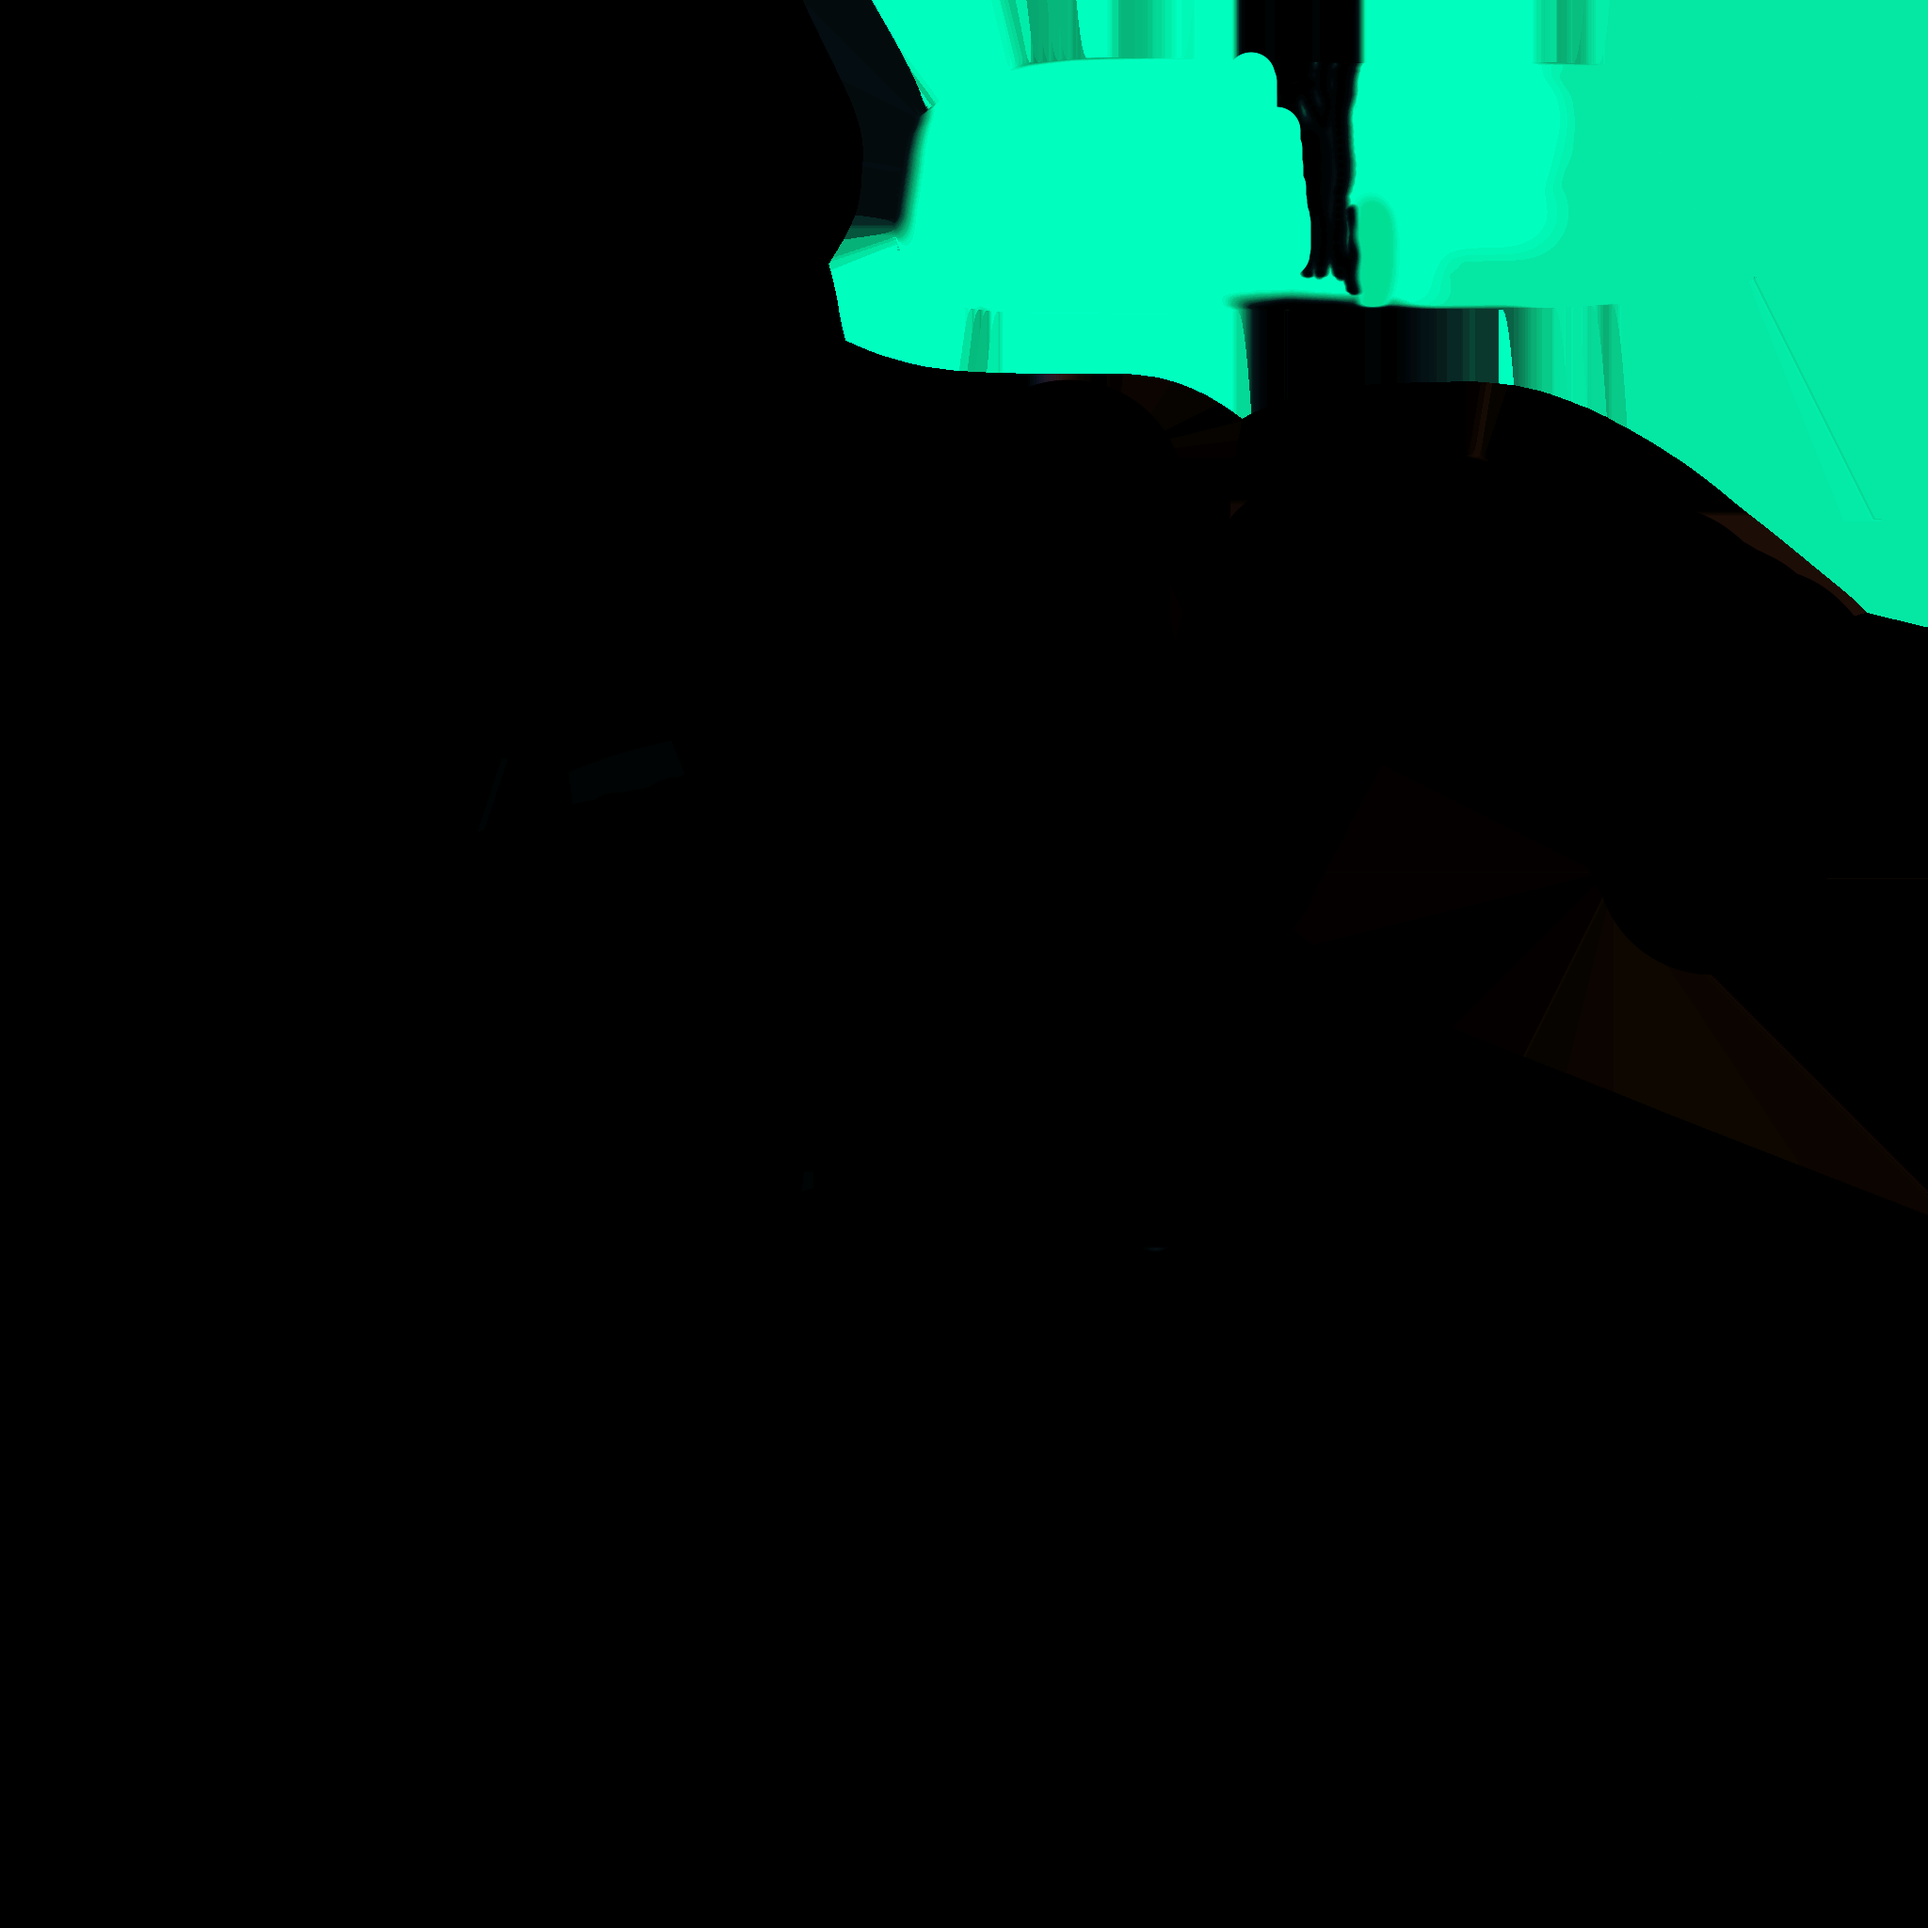
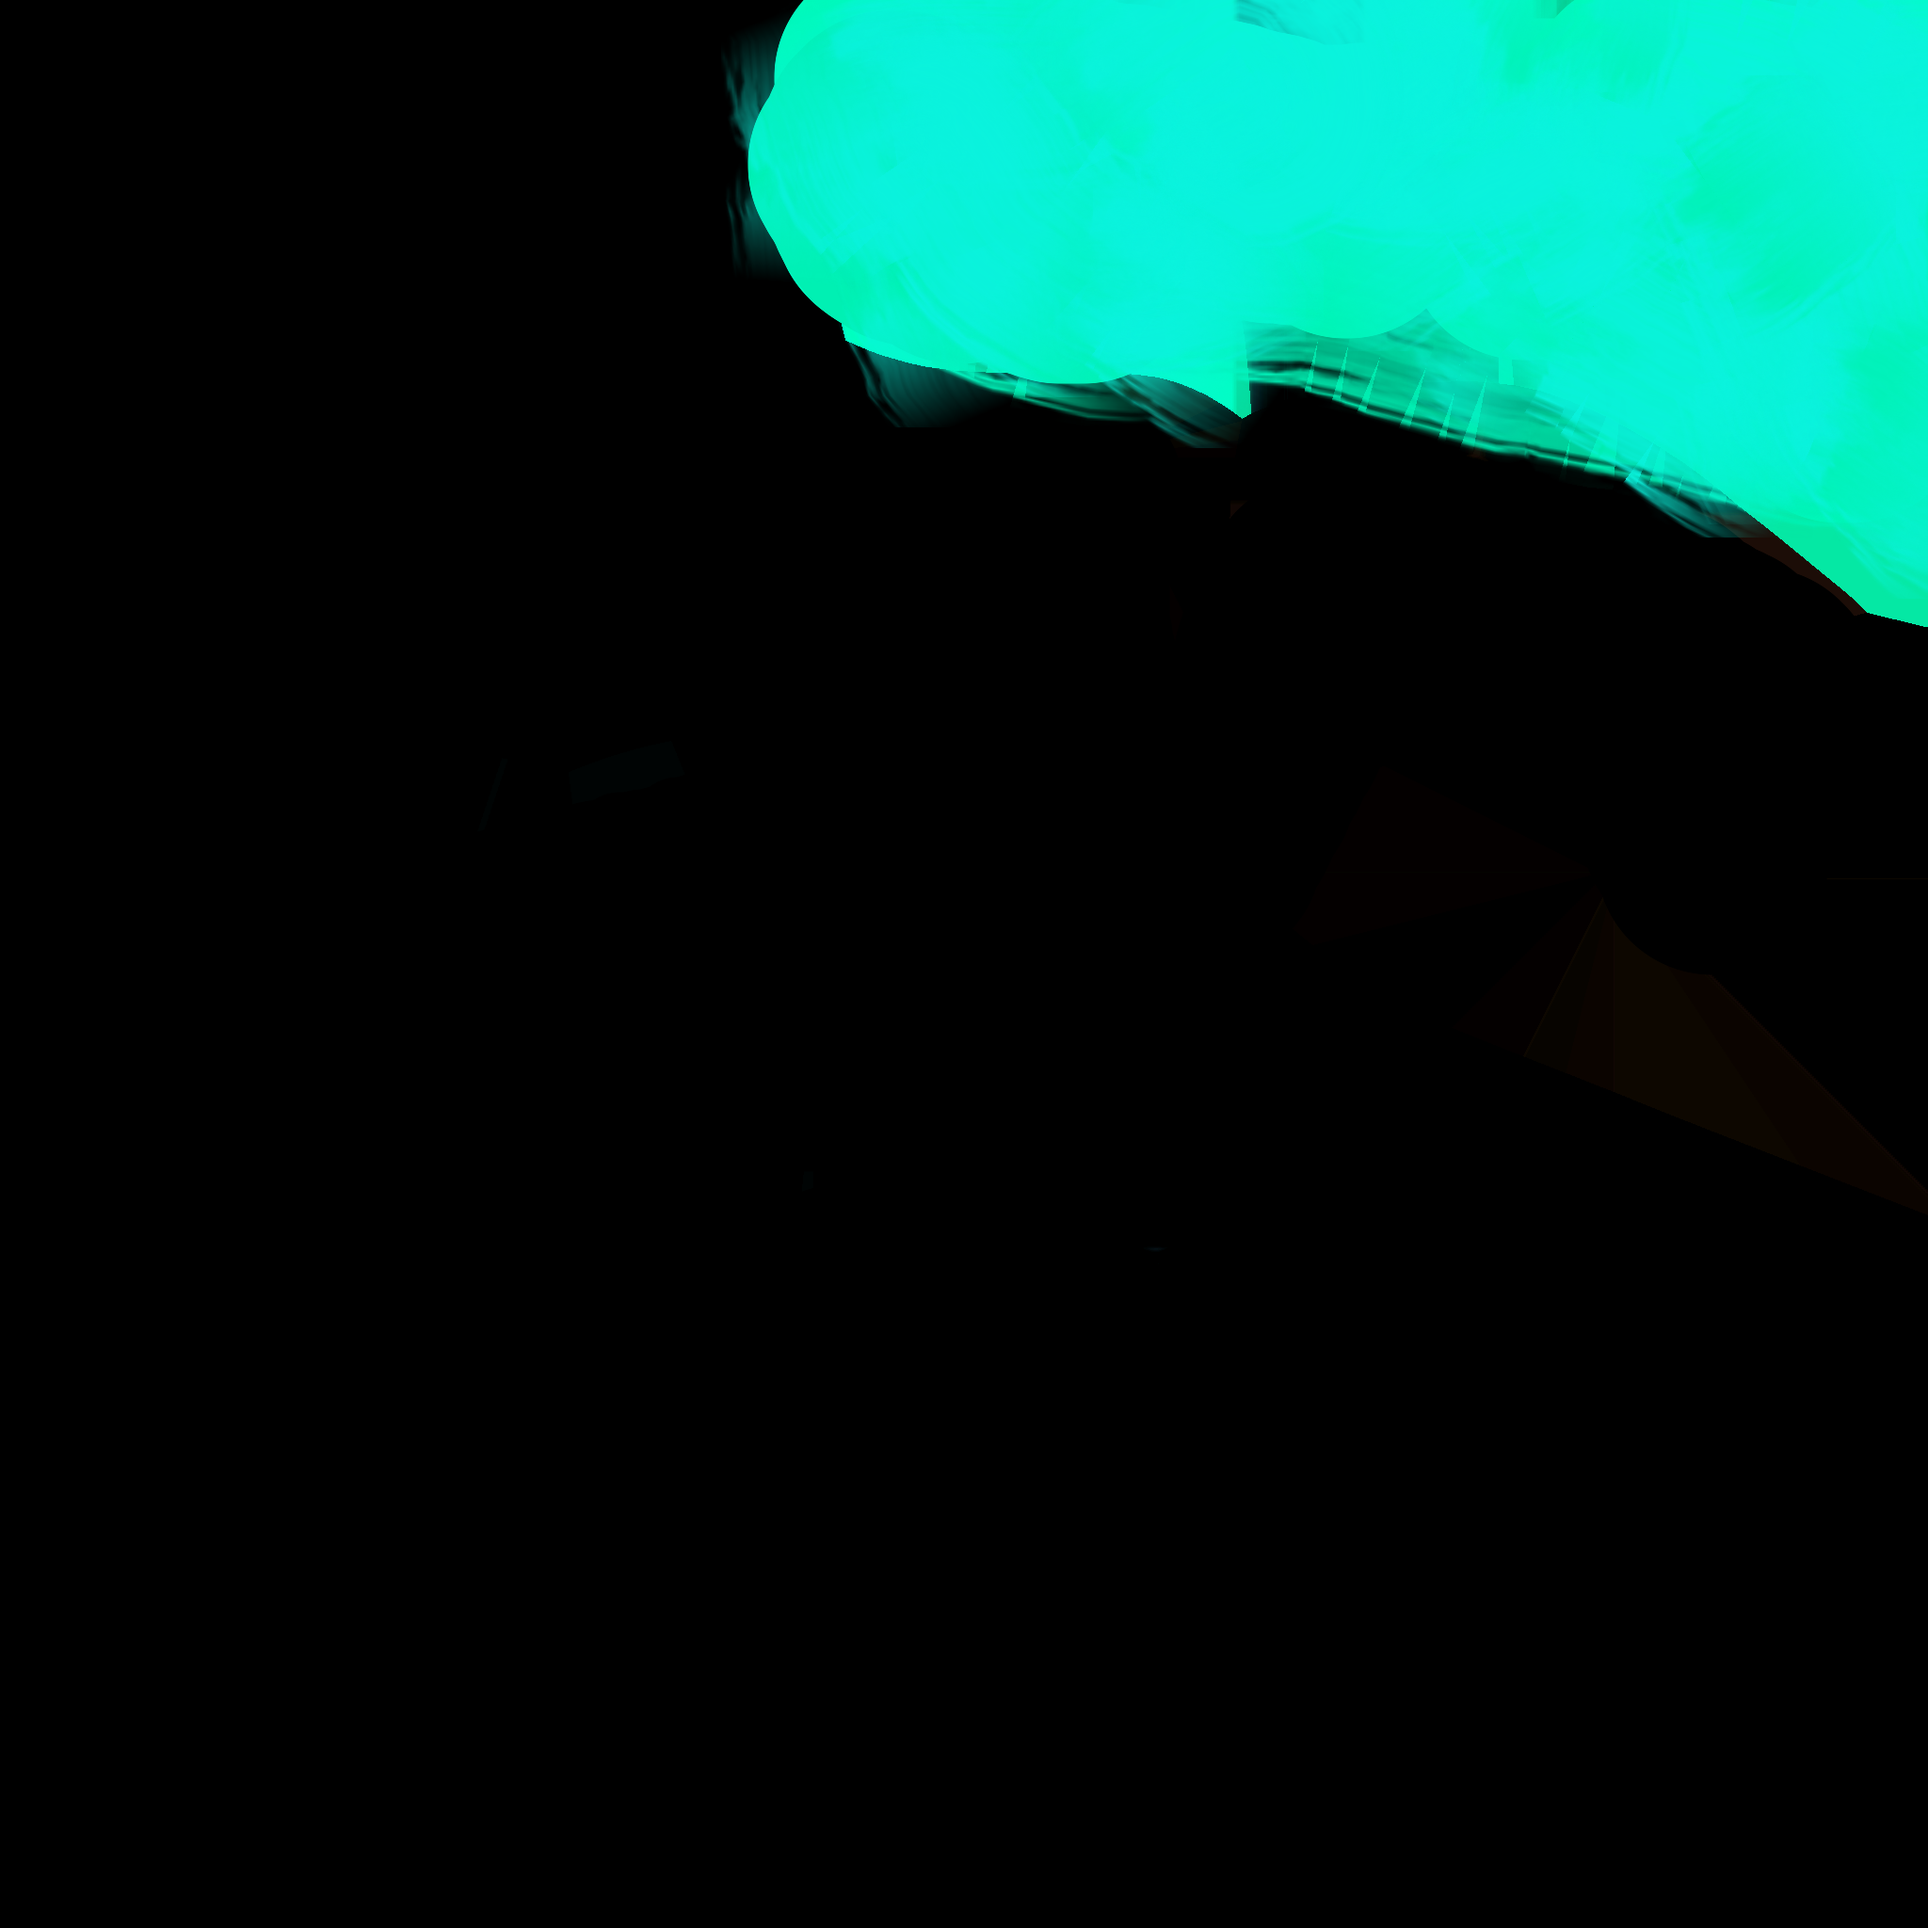
Added indicator for ammo, updated water particles textures and rotation, made water velocity affeced by player movement
And prob something else idk

Changed region(s): [[0.375, 0.0, 1.0, 0.3125]]

diff --git a/Assets/Scripts/Gun/WaterGun.cs b/Assets/Scripts/Gun/WaterGun.cs
@@ -8,9 +8,9 @@ public class WaterGun : MonoBehaviour
 {
 
     //Set high for testing***
-    public float ammo = 300f;
-    public float maxAmmo = 300f;
-    [SerializeField] private float fireRate = 10f;
+    public float ammo = 50f;
+    public float maxAmmo = 50f;
+    [SerializeField] private float fireRate = .1f;
     
     private ParticleSystem ps;
 
@@ -19,9 +19,13 @@ public class WaterGun : MonoBehaviour
 
     private bool playerDead = false;
 
+    //initial velocity for better particle physics
+    private ParticleSystem.VelocityOverLifetimeModule velocityModule;
+
     private void Awake()
     {
         ps = GetComponent<ParticleSystem>();
+        velocityModule = ps.velocityOverLifetime;
     }
     private void Update()
     {
@@ -32,6 +36,7 @@ public class WaterGun : MonoBehaviour
         }
         HandleInput();
         HandleShooting();
+        ParticlePhysics();
     }
 
     private void HandleInput() // Handles user inputs for shooting and stopping shooting
@@ -96,6 +101,33 @@ public class WaterGun : MonoBehaviour
             return;
         }
         ammo -= fireRate;
+    }
+
+
+
+    //All code to make the water feel more natural and it gets initial velocity based on your movement
+
+    ParticleSystem.VelocityOverLifetimeModule vel;
+    PlayerMovement playerMovement;
+    private void Start()
+    {
+
+        vel = ps.velocityOverLifetime;
+        vel.enabled = true;
+        vel.space = ParticleSystemSimulationSpace.World; // Or Local
+        playerMovement = GetComponentInParent<PlayerMovement>();
+    }
+    public void ParticlePhysics()
+    {
+        Vector3 extraVelocity = Vector3.zero;
+
+        extraVelocity = playerMovement.GetVelocity();
+
+        vel.x = new ParticleSystem.MinMaxCurve(extraVelocity.x);
+        vel.y = new ParticleSystem.MinMaxCurve(extraVelocity.y);
+        vel.z = new ParticleSystem.MinMaxCurve(extraVelocity.z);
+
+
     }
 
     private void OnEnable()

diff --git a/Assets/Scripts/Gun/WaterGunEmissiveAmmo.cs b/Assets/Scripts/Gun/WaterGunEmissiveAmmo.cs
@@ -1,0 +1,64 @@
+using System.Collections;
+using System.Collections.Generic;
+using UnityEngine;
+
+public class WaterGunEmissiveAmmo : MonoBehaviour
+{
+    private WaterGun WaterGun;
+    private Material MaterialInstance;
+    private Color OgColor;
+    private bool shooting;
+
+    private void Awake()
+    {
+        WaterGun = transform.parent.GetComponent<WaterGun>();
+        MaterialInstance = GetComponent<Renderer>().material;
+        MaterialInstance.EnableKeyword("_EMISSION");
+        OgColor = MaterialInstance.GetColor("_EmissionColor");
+        shooting = false;
+
+    }
+
+    public void OnEnable()
+    {
+        PlayerEventDispatcher.GunRefillStopped += refill;
+        PlayerEventDispatcher.GunShot += emptying;
+        PlayerEventDispatcher.GunShootingStopped += stop;
+    }
+
+    private void OnDisable()
+    {
+        PlayerEventDispatcher.GunRefillStopped -= refill;
+        PlayerEventDispatcher.GunShot -= emptying;
+        PlayerEventDispatcher.GunShootingStopped -= stop;
+    }
+
+    public void Update()
+    {
+        //If you are shooting, slowly decrease the emissivness based on ammo
+        if (!shooting) return;
+
+        MaterialInstance.SetColor("_EmissionColor", OgColor * Mathf.LinearToGammaSpace((WaterGun.ammo / WaterGun.maxAmmo) * (WaterGun.ammo / WaterGun.maxAmmo)));
+    }
+
+    public void refill() 
+    {
+        MaterialInstance.SetColor("_EmissionColor", OgColor);
+    }
+
+    //change boolean to know if shooting or not
+    public void emptying()
+    {
+        shooting = true;
+    }
+
+    public void stop()
+    {
+        shooting = false;
+    }
+
+
+
+
+
+}

diff --git a/Assets/Scripts/Gun/WaterCollision.cs b/Assets/Scripts/Gun/WaterCollision.cs
@@ -27,10 +27,14 @@ public class WaterCollision : MonoBehaviour
             Vector3 pos = collisionEvents[i].intersection;
             Vector3 normal = collisionEvents[i].normal;
 
-            Debug.Log(other.name);
+            Quaternion randomAngle = Quaternion.AngleAxis(UnityEngine.Random.Range(0f, 360f), Vector3.forward);
+
+
             ProjectileEventDispatcher.TriggerParticleCollided(other); //Goes to the ProjectileEventDispatcher
-            GameObject splashAtObject = Instantiate(splash[0], pos, Quaternion.LookRotation(-normal));//Creates a splash at the position of the collision
+            GameObject splashAtObject = Instantiate(splash[0], pos, Quaternion.LookRotation(-normal) * randomAngle);//Creates a splash at the position of the collision
             splashAtObject.transform.SetParent(other.transform);
+
+
 
             Destroy(splashAtObject, timeLife);
 

diff --git a/Assets/Scripts/SpikeDamager.cs b/Assets/Scripts/SpikeDamager.cs
@@ -16,9 +16,6 @@ public class SpikeDamager : MonoBehaviour
             Debug.Log("Hit");
             PlayerEventDispatcher.TriggerPlayerDamaged();
 
-            //Recoil maybe add later?
-            //Vector3 awayDirection = (Vector3)(other.transform.position - transform.position);
-            //other.transform.GetComponent<PlayerMovement>()?.Recoil(awayDirection * 3f);
         }
     }
 }

diff --git a/Assets/Scripts/Gun/ProjectileEventDispatcher.cs b/Assets/Scripts/Gun/ProjectileEventDispatcher.cs
@@ -10,10 +10,12 @@ public class ProjectileEventDispatcher : MonoBehaviour
 
     public static event GameEventHandler ParticleCollided; 
 
+
     public static void TriggerParticleCollided(GameObject hitObject)
     {
         ParticleCollided?.Invoke(hitObject);
     }
+
 
 
 }

diff --git a/Assets/Scripts/PlayerMovement.cs b/Assets/Scripts/PlayerMovement.cs
@@ -117,6 +117,11 @@ public class PlayerMovement : MonoBehaviour
         Destroy(gameObject);
     }
 
+    public Vector3 GetVelocity()
+    {
+        return transform.position - lastPosition;
+    }
+
 
 
 }
